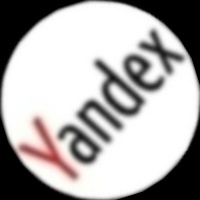
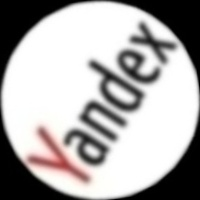
a

diff --git a/app.py b/app.py
@@ -1,8 +1,12 @@
 import cv2
 import time
+import logging
 
 angle = 1
 while 1:
+    logger = logging.getLogger('route.logger')
+    logger.info('Connection to database successful') 
+
     # read image as grey scale
     img = cv2.imread('1.jpg')
     # get image height, width
@@ -15,6 +19,8 @@ while 1:
     M = cv2.getRotationMatrix2D(center, angle, scale)
     rotated = cv2.warpAffine(img, M, (h, w))
     writeStatus = cv2.imwrite("1.jpg", rotated)
+    
+
     if writeStatus is True:
         print("image written")
         hs = open("hst.txt","a")
